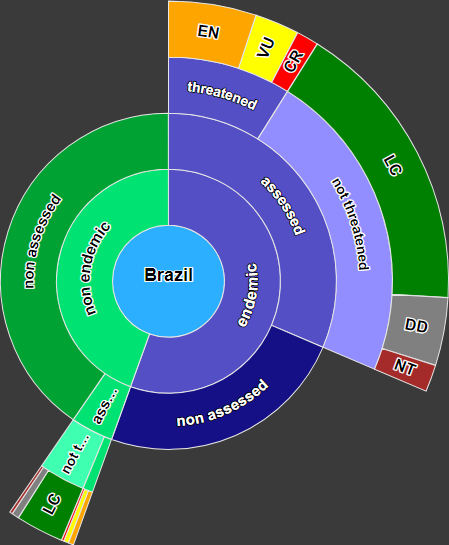
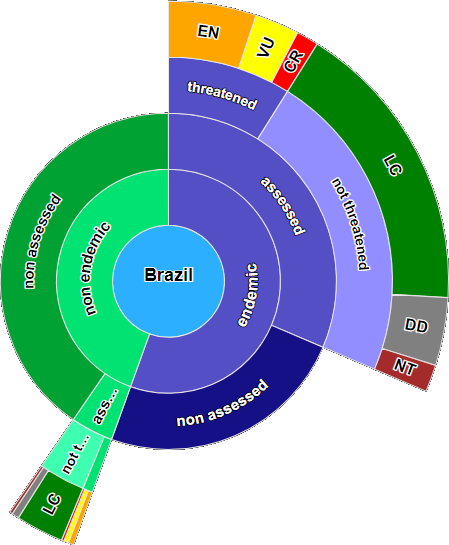
commit

diff --git a/index.html b/index.html
@@ -101,13 +101,13 @@
             </section>
 
             <section data-transition="none">
-                <h4>Brazil: 2,857 (13.7%)</h4>
-                <img src="./images/image1.jpg">
+                <h4>Brazil: 2,857 (12.8%)</h4>
+                <img src="./images/Brazil.png">
                 <small>source: FFB http://floradobrasil.jbrj.gov.br/ (2023-05-19)</small>
             </section>
 
             <section data-transition="none">
-                <h4>assessed: 1,024 (33.4%)</h4>
+                <h4>assessed: 1,024 (35.8%)</h4>
                 <img src="./images/image2.jpg">
             </section>
 
